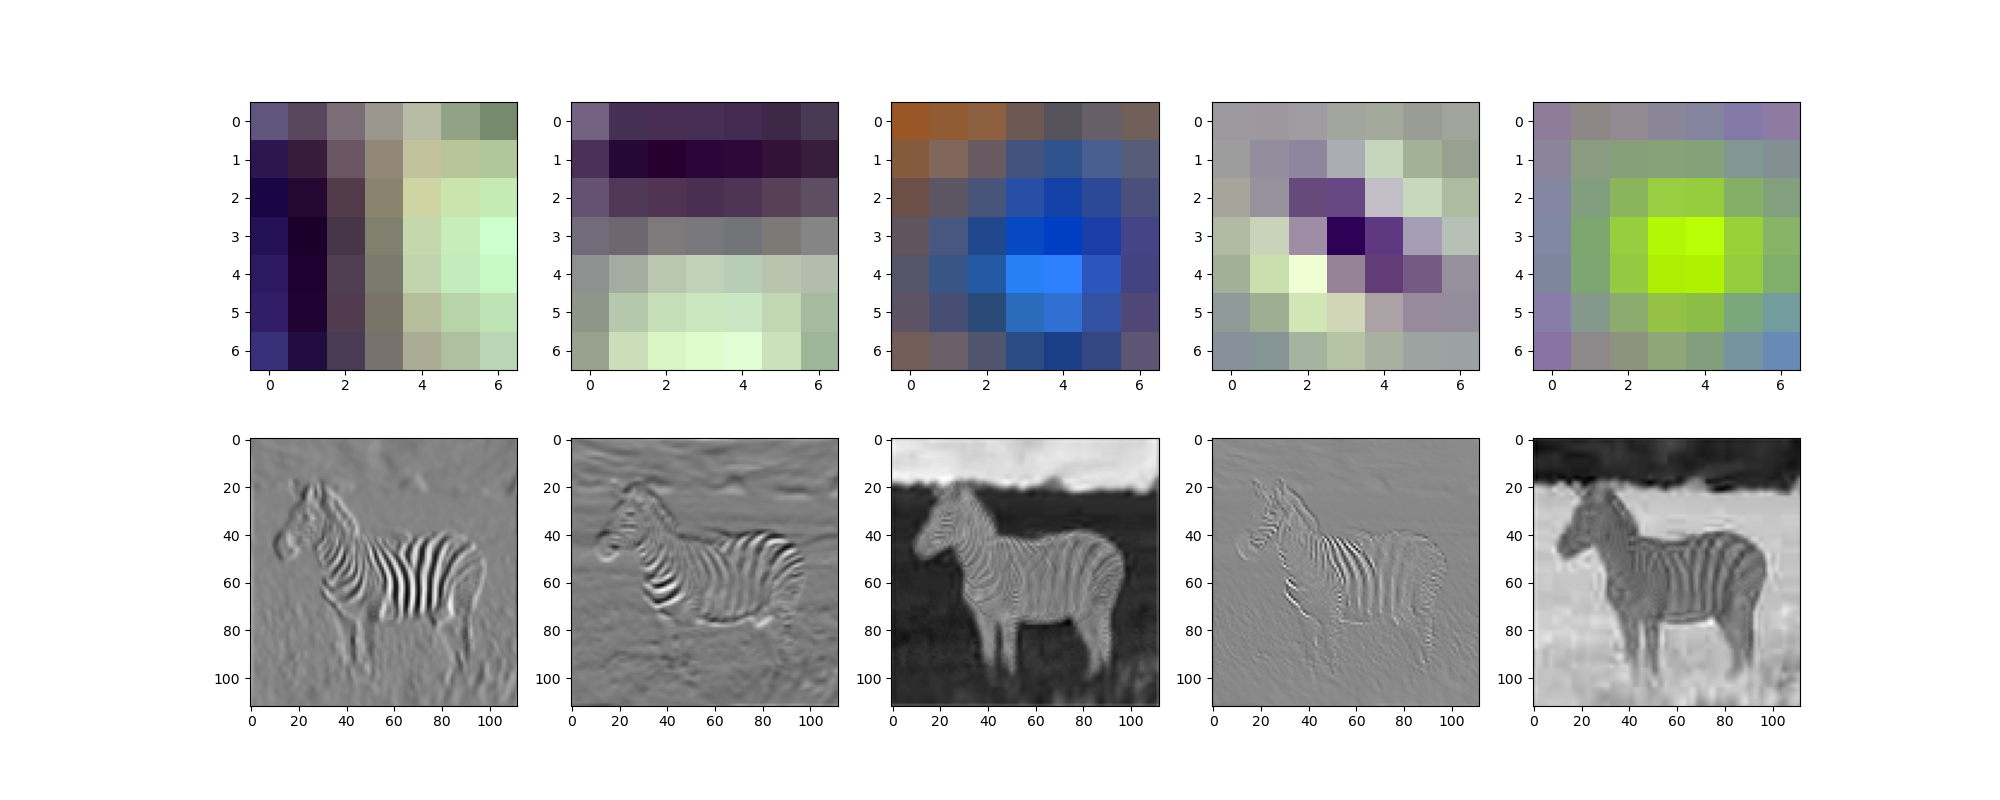
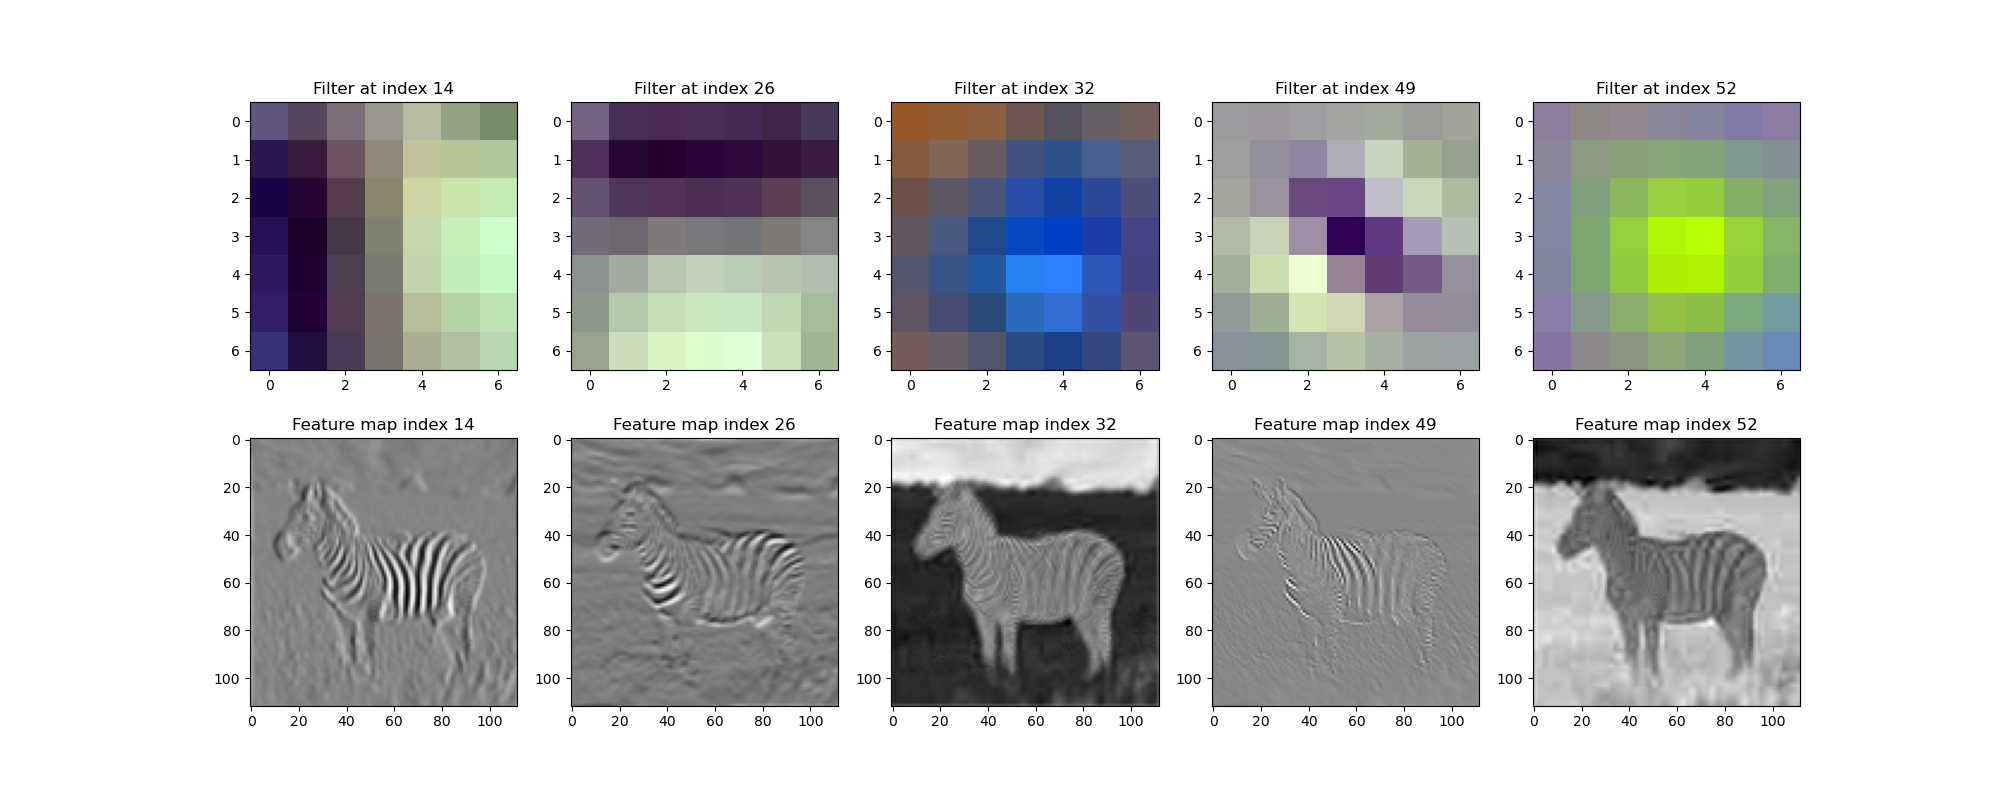
added title to feature maps and filters

diff --git a/assignment3/task4b.py b/assignment3/task4b.py
@@ -77,14 +77,14 @@ def show_activation_and_filter_from_layer(layer_activation, indices,name:str, la
     for i in range(len(activation_images)):
         if plotfilters:
             fig.add_subplot(2, len(indices), i + 1)
-            plt.title(f"Filter at index {i}")
+            plt.title(f"Filter at index {indices[i]}")
             plt.imshow(filter_images[i])
             fig.add_subplot(2,len(indices),len(indices) + i+1)
-            plt.title(f"Feature map at index {i}")
+            plt.title(f"Feature map index {indices[i]}")
             plt.imshow(activation_images[i], cmap='gray')
         else:
             fig.add_subplot(1, len(indices), i + 1)
-            plt.title(f"Feature map at index {i}")
+            plt.title(f"Feature map index {indices[i]}")
             plt.imshow(activation_images[i], cmap='gray')
     plt.savefig(plot_path.joinpath(f"{name}_plot.png"))
     plt.show()
